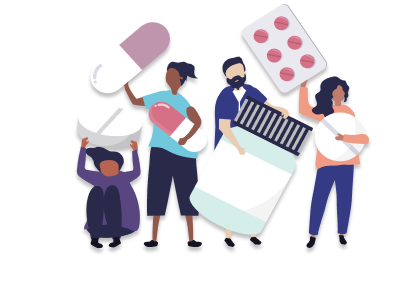
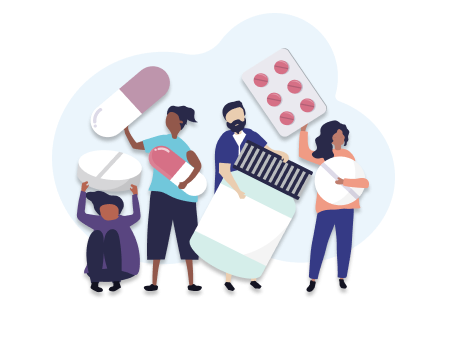
css changes to home page

diff --git a/client/src/Pages/Home/Home.css b/client/src/Pages/Home/Home.css
@@ -6,13 +6,12 @@ img {
   width: 75px;
 }
 
-h2 {
+.hometext {
   font-size: 18px;
-  font-weight: bold;
   text-align: center;
 }
 
-.logo {
+.homelogo {
   display: flex;
   justify-content: left;
   width: 100px;
@@ -32,9 +31,71 @@ h2 {
 }
 
 .familyimage {
+  display: flex;
+  justify-content: center;
+  align-content: center;
   height: 250px;
-  width: 275px;
+  width: 325px;
   padding: 15px;
+}
+
+.mainimagecontainer {
+  display: flex;
+  justify-content: center;
+  align-items: center;
+  height: 250px;
+  width: 300px;
+  padding-left: 20px;
+  padding-top: 20px;
+  padding-bottom: 10px;
+}
+
+.mymedicines {
+  display: flex;
+  flex-direction: column;
+  justify-content: center;
+  align-items: center;
+  height: 150px;
+  width: 150px;
+  height: 150px;
+  width: 150px;
+  color: #253965;
+}
+
+.calendar {
+  display: flex;
+  flex-direction: column;
+  justify-content: center;
+  align-items: center;
+  height: 150px;
+  width: 150px;
+  height: 150px;
+  width: 150px;
+  color: #253965;
+}
+
+.dailylog {
+  display: flex;
+  flex-direction: column;
+  justify-content: center;
+  align-items: center;
+  height: 150px;
+  width: 150px;
+  height: 150px;
+  width: 150px;
+  color: #253965;
+}
+
+.shop {
+  display: flex;
+  flex-direction: column;
+  justify-content: center;
+  align-items: center;
+  height: 150px;
+  width: 150px;
+  height: 150px;
+  width: 150px;
+  color: #253965;
 }
 
 .refillimagecontainer {
@@ -46,6 +107,7 @@ h2 {
   height: 150px;
   width: 150px;
   border-radius: 15px;
+  box-shadow: 0px 4px 4px rgba(0, 0, 0, 0.25);
 }
 
 .refillimage {
@@ -63,6 +125,7 @@ h2 {
   height: 150px;
   width: 150px;
   border-radius: 15px;
+  box-shadow: 0px 4px 4px rgba(0, 0, 0, 0.25);
 }
 
 .dailylogimagecontainer {
@@ -74,6 +137,7 @@ h2 {
   height: 150px;
   width: 150px;
   border-radius: 15px;
+  box-shadow: 0px 4px 4px rgba(0, 0, 0, 0.25);
 }
 
 .shopimagecontainer {
@@ -85,27 +149,19 @@ h2 {
   height: 150px;
   width: 150px;
   border-radius: 15px;
-}
-
-a:link {
-  display: flex;
-  flex-direction: column;
-  justify-content: center;
-  align-items: center;
-  height: 150px;
-  width: 150px;
-  height: 150px;
-  width: 150px;
+  box-shadow: 0px 4px 4px rgba(0, 0, 0, 0.25);
 }
 
 .medicinesrow {
   display: flex;
   justify-content: space-around;
+  align-items: center;
   width: 325px;
 }
 
 .dailylogrow {
   display: flex;
   justify-content: space-around;
+  align-items: center;
   width: 325px;
 }

diff --git a/client/src/Pages/Home/Home.jsx b/client/src/Pages/Home/Home.jsx
@@ -13,8 +13,8 @@ import logo from '../../Images/medmelogo.png';
 const Home = () => {
   return (
     <div>
-      <div className="logo">
-        <img className="logo" src={logo} alt="logo" />
+      <div className="homelogo">
+        <img className="homelogo" src={logo} alt="logo" />
       </div>
       <div>
         <h1 className="pagegreeting">Hello, Pablo!</h1>
@@ -28,13 +28,13 @@ const Home = () => {
             <div className="refillimagecontainer">
               <img className="refillimage" src={refills} alt="refills" />
             </div>
-            <h2>My Medicines</h2>
+            <h2 className="hometext">My Medicines</h2>
           </Link>
           <Link className="calendar">
             <div className="calendarimagecontainer">
               <img className="calendarimage" src={calendar} alt="calendar" />
             </div>
-            <h2>Calendar</h2>
+            <h2 className="hometext">Calendar</h2>
           </Link>
         </div>
         <div className="dailylogrow">
@@ -42,13 +42,13 @@ const Home = () => {
             <div className="dailylogimagecontainer">
               <img className="dailylogimage" src={dailylog} alt="dailylog" />
             </div>
-            <h2>Daily Log</h2>
+            <h2 className="hometext">Daily Log</h2>
           </Link>
           <Link className="shop">
             <div className="shopimagecontainer">
               <img className="shopimage" src={shop} alt="shop" />
             </div>
-            <h2>Shop</h2>
+            <h2 className="hometext">Shop</h2>
           </Link>
         </div>
       </div>
